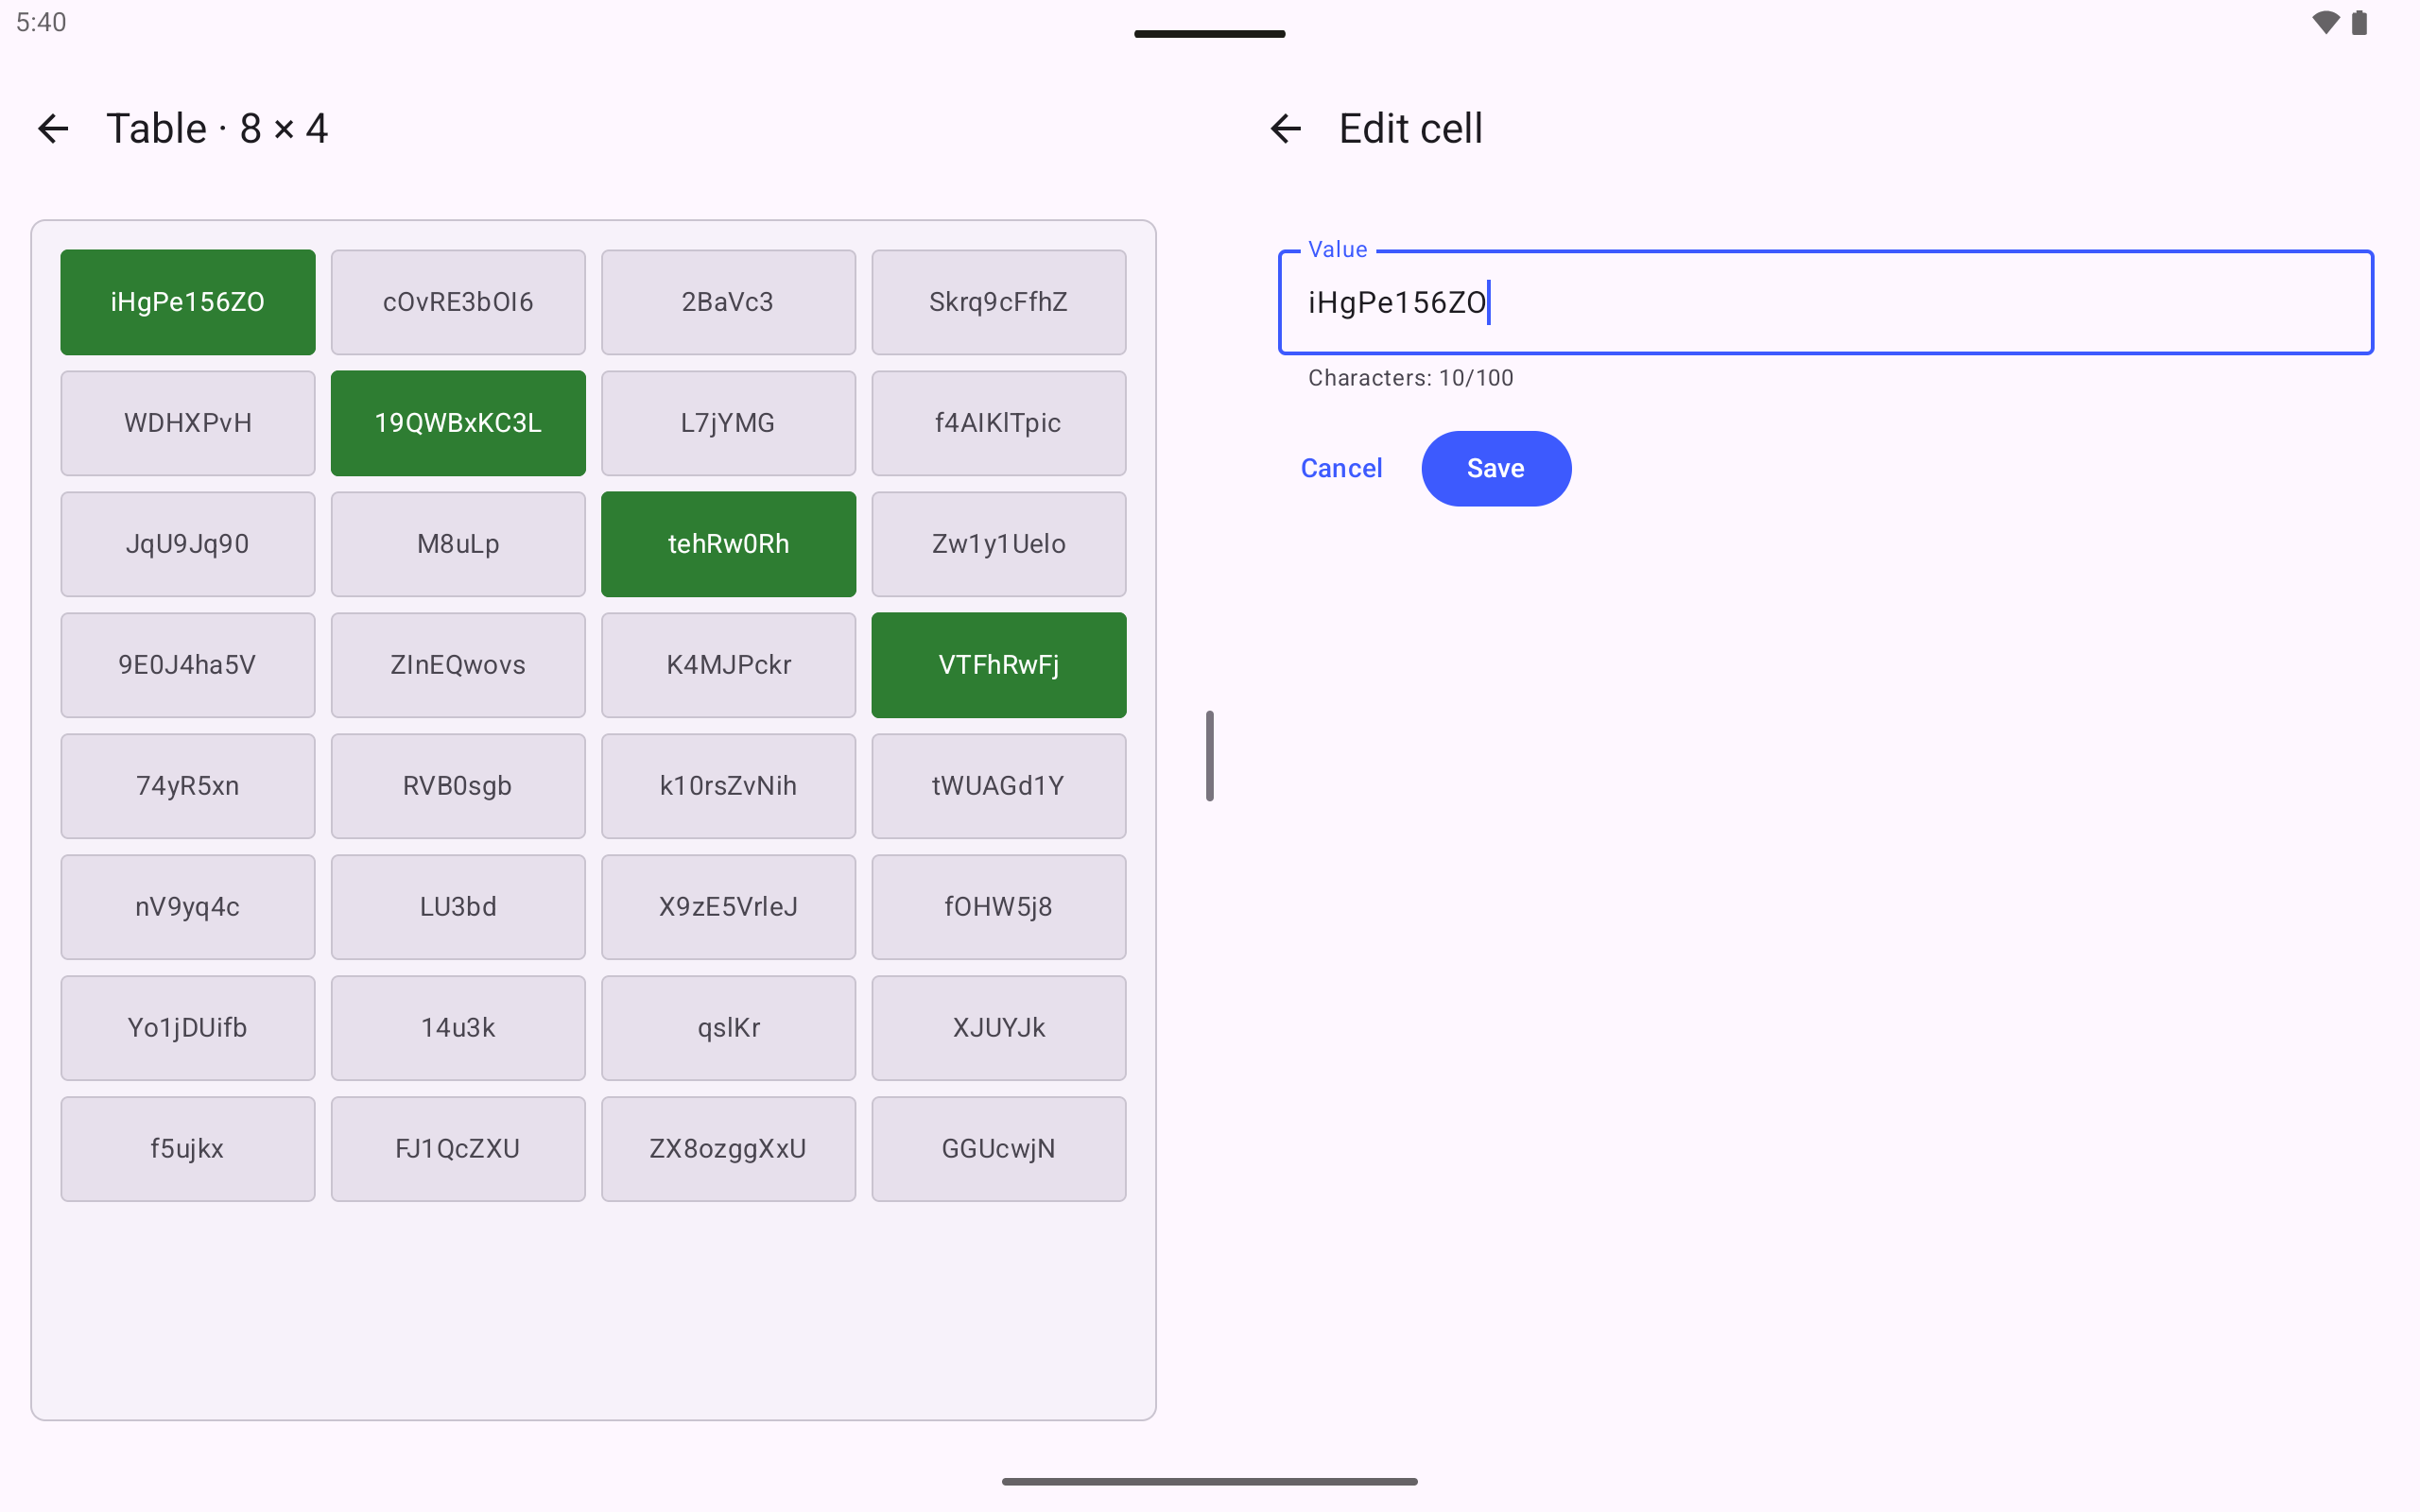
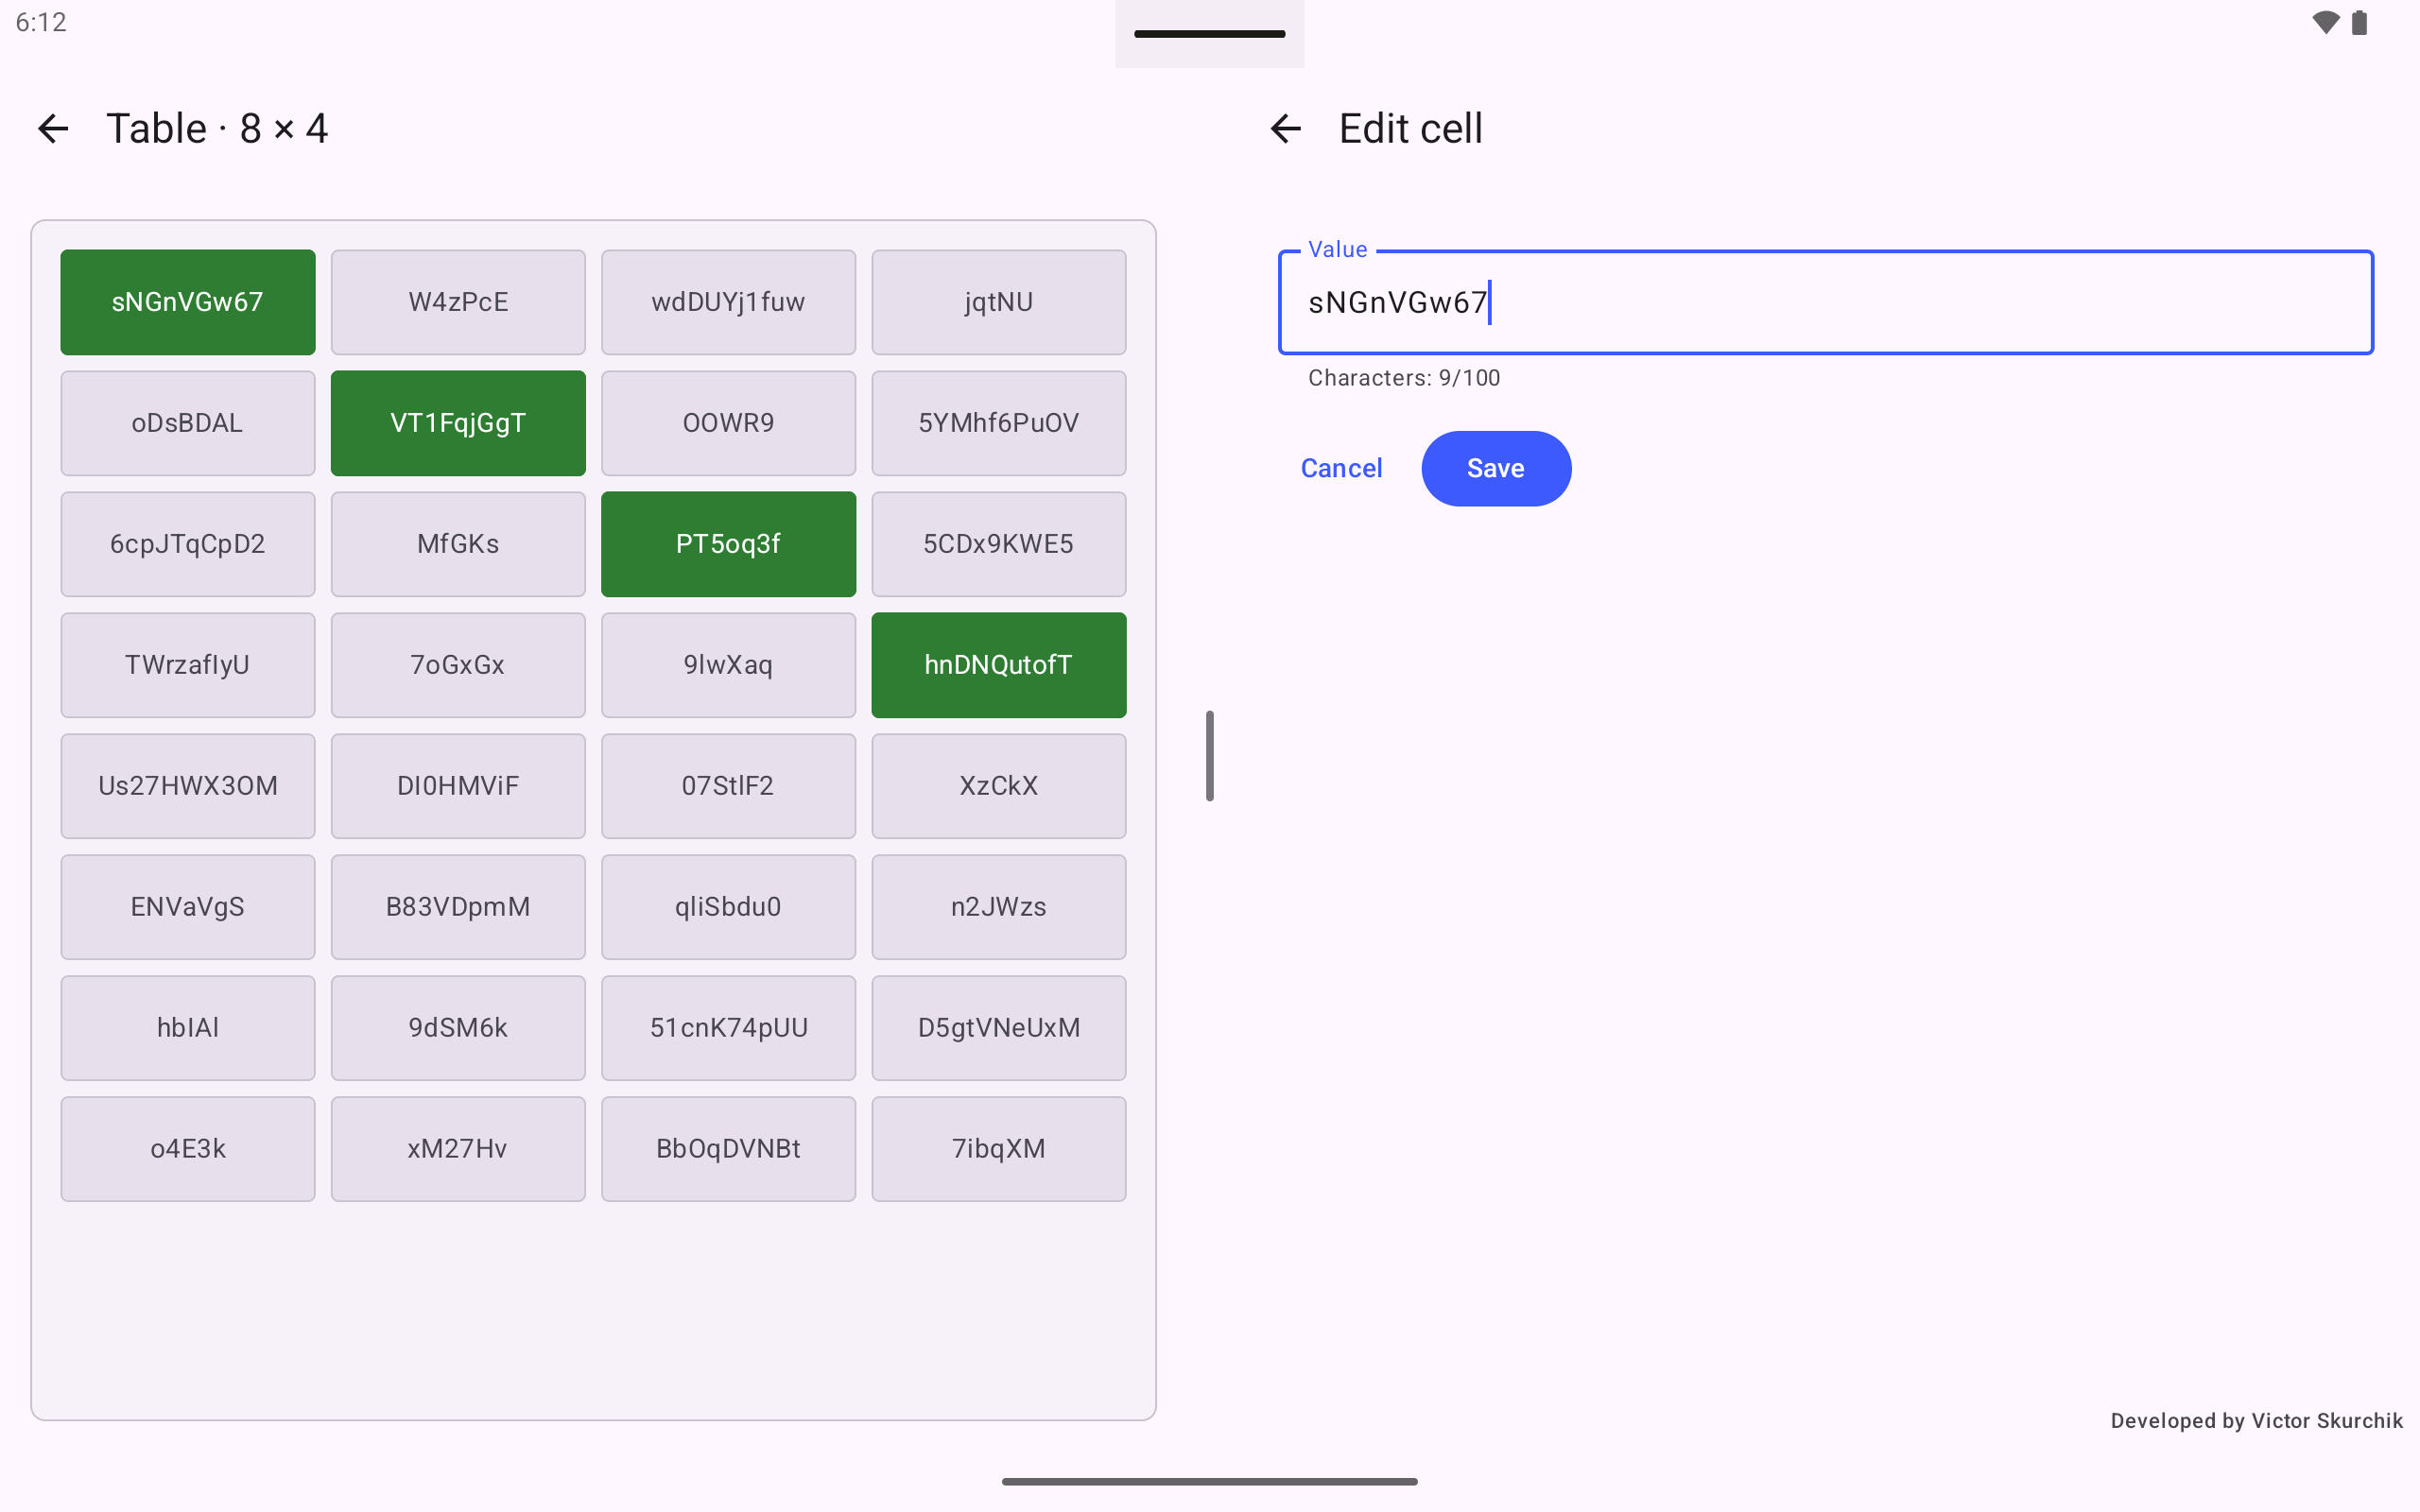
fix(ui): restore developer credit

diff --git a/app/src/main/java/by/vsdev/tablet/demo/navigation/AppNavigation.kt b/app/src/main/java/by/vsdev/tablet/demo/navigation/AppNavigation.kt
@@ -1,16 +1,27 @@
 package by.vsdev.tablet.demo.navigation
 
+import androidx.compose.foundation.layout.Box
+import androidx.compose.foundation.layout.WindowInsets
 import androidx.compose.foundation.layout.fillMaxSize
+import androidx.compose.foundation.layout.padding
+import androidx.compose.foundation.layout.safeDrawing
+import androidx.compose.foundation.layout.windowInsetsPadding
+import androidx.compose.material3.MaterialTheme
 import androidx.compose.material3.Surface
+import androidx.compose.material3.Text
 import androidx.compose.material3.adaptive.ExperimentalMaterial3AdaptiveApi
 import androidx.compose.material3.adaptive.WindowAdaptiveInfo
 import androidx.compose.material3.adaptive.currentWindowAdaptiveInfo
 import androidx.compose.runtime.Composable
+import androidx.compose.ui.Alignment
 import androidx.compose.ui.Modifier
+import androidx.compose.ui.res.stringResource
+import androidx.compose.ui.unit.dp
 import androidx.navigation.compose.NavHost
 import androidx.navigation.compose.composable
 import androidx.navigation.compose.rememberNavController
 import androidx.navigation.toRoute
+import by.vsdev.tablet.demo.R
 import by.vsdev.tablet.demo.ui.presentation.setup.SetupRoute
 import by.vsdev.tablet.demo.ui.presentation.table.ui.TableRoute
 
@@ -23,25 +34,37 @@ internal fun AppRoot(
     val navController = rememberNavController()
 
     Surface(modifier = Modifier.fillMaxSize()) {
-        NavHost(navController = navController, startDestination = SetupDestination) {
-            composable<SetupDestination> {
-                SetupRoute(
-                    onNavigateToTable = { config ->
-                        navController.navigate(TableDestination(config)) {
-                            launchSingleTop = true
-                        }
-                    },
-                    windowAdaptiveInfo = windowAdaptiveInfo,
-                )
+        Box(modifier = Modifier.fillMaxSize()) {
+            NavHost(navController = navController, startDestination = SetupDestination) {
+                composable<SetupDestination> {
+                    SetupRoute(
+                        onNavigateToTable = { config ->
+                            navController.navigate(TableDestination(config)) {
+                                launchSingleTop = true
+                            }
+                        },
+                        windowAdaptiveInfo = windowAdaptiveInfo,
+                    )
+                }
+                composable<TableDestination> { entry ->
+                    val destination = entry.toRoute<TableDestination>()
+                    TableRoute(
+                        config = destination.toConfig(),
+                        onNavigateUp = navController::navigateUp,
+                        windowAdaptiveInfo = windowAdaptiveInfo,
+                    )
+                }
             }
-            composable<TableDestination> { entry ->
-                val destination = entry.toRoute<TableDestination>()
-                TableRoute(
-                    config = destination.toConfig(),
-                    onNavigateUp = navController::navigateUp,
-                    windowAdaptiveInfo = windowAdaptiveInfo,
-                )
-            }
+            Text(
+                text = stringResource(R.string.developer_credit),
+                style = MaterialTheme.typography.labelSmall,
+                color = MaterialTheme.colorScheme.onSurfaceVariant,
+                modifier =
+                    Modifier
+                        .align(Alignment.BottomEnd)
+                        .windowInsetsPadding(WindowInsets.safeDrawing)
+                        .padding(8.dp),
+            )
         }
     }
 }

diff --git a/README.md b/README.md
@@ -307,6 +307,8 @@ The following improvements are intentionally outside the current requirements:
 - Persistent storage, import/export, and sharing of table data
 - Undo/redo, copy/paste, bulk selection, sorting, filtering, and search
 - Phone-first and desktop-first layouts
+- Firebase services and integrations
+- Third-party product analytics (for example, Amplitude)
 - Release signing and store publishing
 
 ## Git workflow